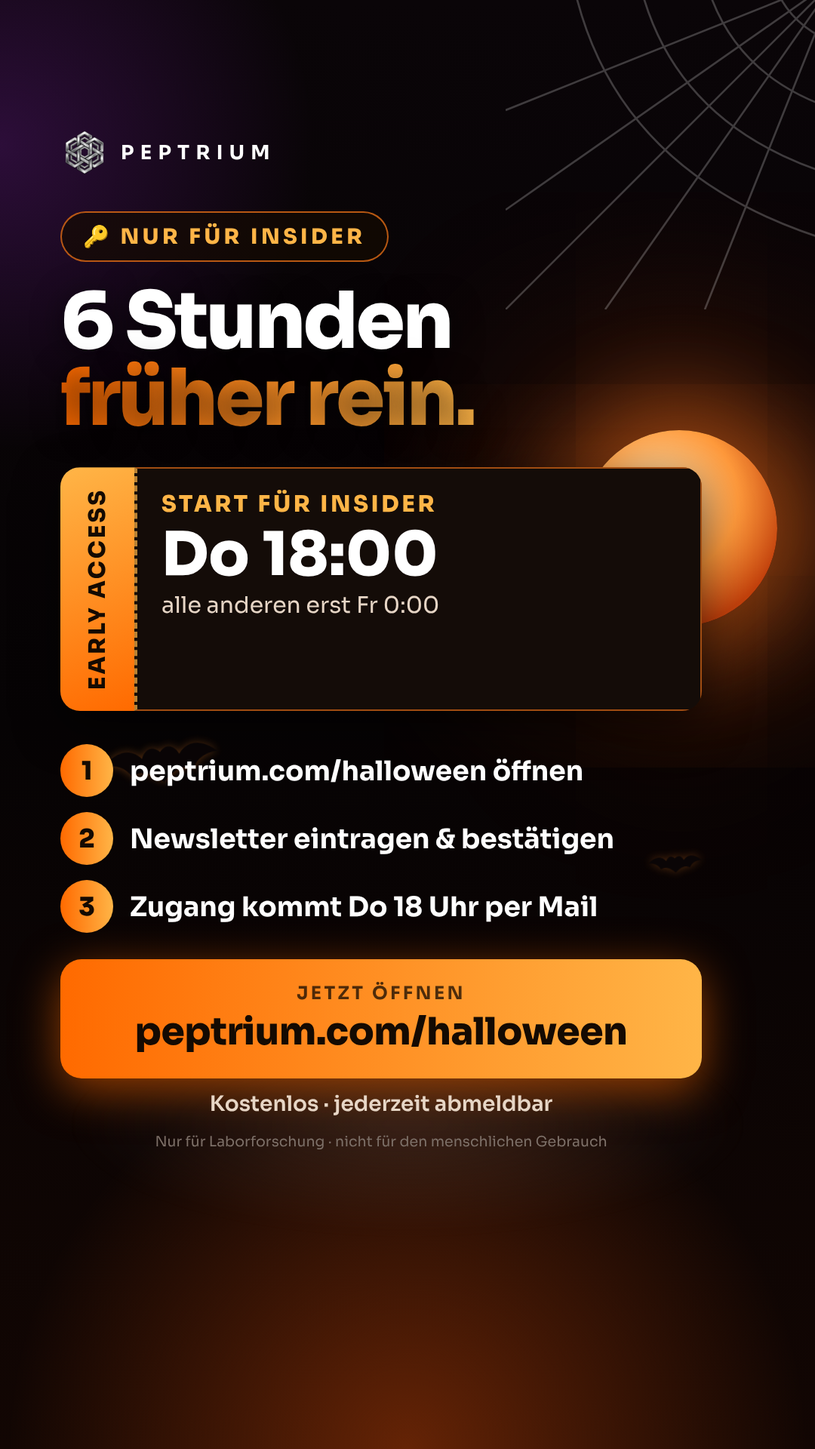
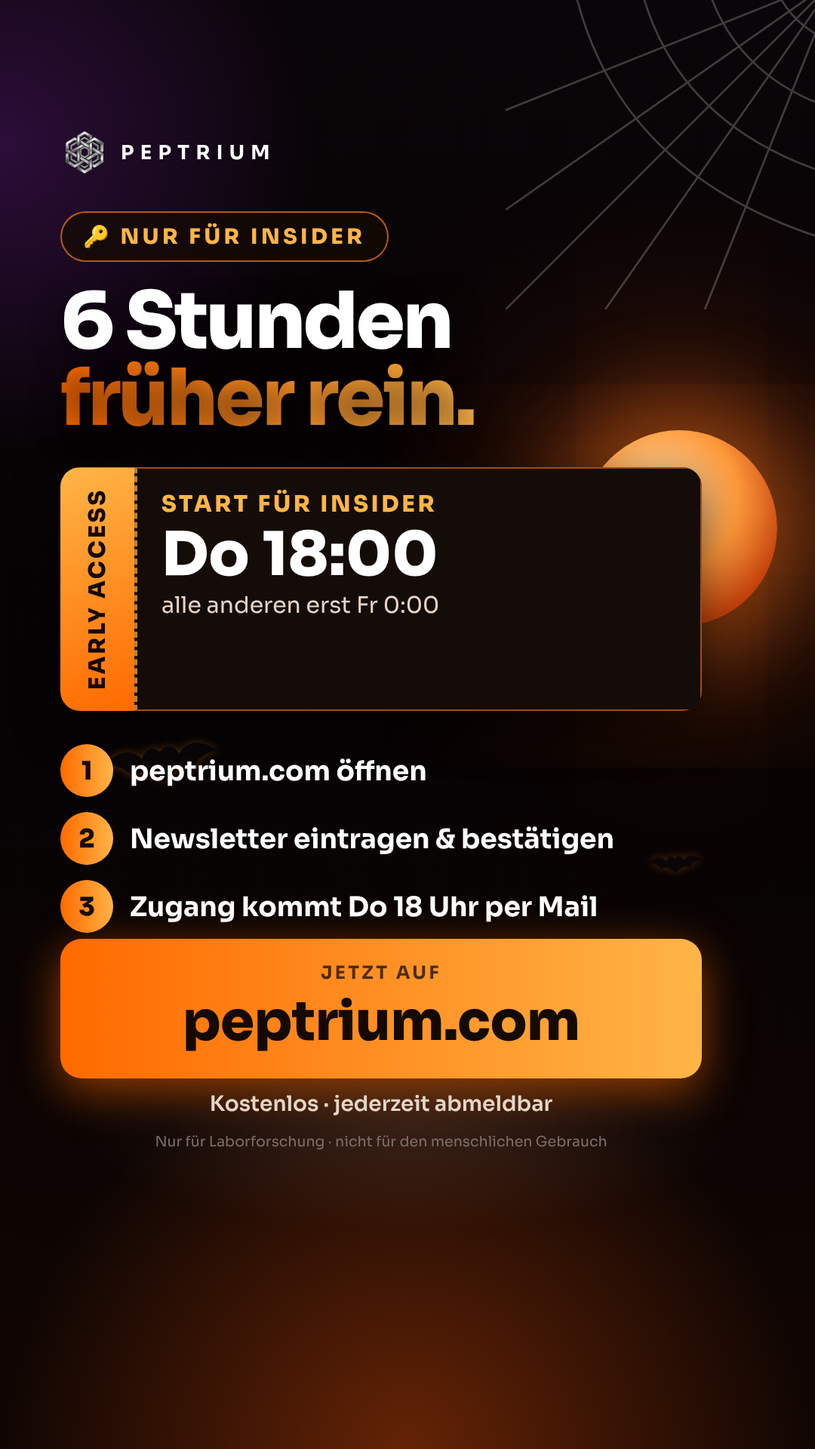
TikTok-Storys: CTA nur peptrium.com
Claude-Session: https://claude.ai/code/session_011YY7DBkbr5BcFGKyLoSbVN

Changed region(s): [[0.0611, 0.625, 0.8556, 0.7188], [0.4889, 0.5, 0.7028, 0.5625], [0.3972, 0.5, 0.4889, 0.5625]]

diff --git a/drafts/halloween-2026-10-22/partner/tiktok/eigen-2-insider.html b/drafts/halloween-2026-10-22/partner/tiktok/eigen-2-insider.html
@@ -17,7 +17,7 @@ h1{font-size:118px;line-height:.98;font-weight:800;letter-spacing:-.035em;text-s
 .free{position:relative}.free img{filter:drop-shadow(0 0 70px rgba(255,122,26,.85)) drop-shadow(0 30px 40px rgba(0,0,0,.8))!important}
 .stamp{position:absolute;top:40%;left:50%;transform:translate(-50%,-50%) rotate(-12deg);font-size:50px;font-weight:800;letter-spacing:.08em;color:#140A02;background:linear-gradient(90deg,#FF6A00,#FFB547);padding:12px 28px;border-radius:14px;box-shadow:0 10px 50px rgba(255,122,26,.7)}
 .cta{position:absolute;left:80px;right:150px;bottom:440px;text-align:center}
-.url{display:block;background:linear-gradient(90deg,#FF6A00,#FFB547);color:#140A02;font-size:50px;font-weight:800;letter-spacing:-.01em;border-radius:28px;padding:30px 20px;box-shadow:0 16px 60px rgba(255,106,0,.55)}
+.url{display:block;background:linear-gradient(90deg,#FF6A00,#FFB547);color:#140A02;font-size:72px;font-weight:800;letter-spacing:-.01em;border-radius:28px;padding:30px 20px;box-shadow:0 16px 60px rgba(255,106,0,.55)}
 .url small{display:block;font-size:24px;font-weight:700;letter-spacing:.14em;opacity:.75;margin-bottom:4px}
 .or{font-size:28px;color:#E7D6C6;margin-top:16px;font-weight:600}
 .foot{position:absolute;left:80px;right:150px;bottom:395px;font-size:19px;color:#7d7068;text-align:center}
@@ -34,4 +34,4 @@ h1{font-size:118px;line-height:.98;font-weight:800;letter-spacing:-.035em;text-s
 .calc{background:rgba(20,12,8,.85);border:2px solid rgba(255,122,26,.55);border-radius:28px;padding:30px 34px}
 .calc .r{display:flex;justify-content:space-between;font-size:38px;font-weight:700;padding:10px 0}.calc .r.g{color:#FFB547}.calc .ln{height:2px;background:rgba(255,255,255,.15);margin:8px 0}
 .calc .note{font-size:26px;color:#C9B9AA;margin-top:12px}
-</style></head><body><div class="bg"></div><div class="moon" style="left:770px;top:570px;width:260px;height:260px"></div><svg class="web" viewBox="0 0 100 100" fill="none" stroke="#fff" stroke-width=".6"><path d="M100 0 0 100M100 0 30 100M100 0 60 100M100 0 0 70M100 0 0 40"/><path d="M80 0q5 15 20 20M60 0q8 30 40 40M40 0q10 45 60 60M20 0q12 60 80 80"/></svg><div class="fog" style="top:1280px"></div><svg class="bat" style="left:140px;top:980px;width:150px;opacity:0.95;transform:rotate(-8deg)" viewBox="0 0 24 12"><path d="M0 4C3 1 6 1 8 3.5 9 1.5 10.5 1 12 2.6 13.5 1 15 1.5 16 3.5 18 1 21 1 24 4 21.5 4 19.6 5 18.6 7 16.8 6 14.6 6.4 12 9 9.4 6.4 7.2 6 5.4 7 4.4 5 2.5 4 0 4Z"/></svg><svg class="bat" style="left:780px;top:880px;width:110px;opacity:0.9;transform:rotate(10deg)" viewBox="0 0 24 12"><path d="M0 4C3 1 6 1 8 3.5 9 1.5 10.5 1 12 2.6 13.5 1 15 1.5 16 3.5 18 1 21 1 24 4 21.5 4 19.6 5 18.6 7 16.8 6 14.6 6.4 12 9 9.4 6.4 7.2 6 5.4 7 4.4 5 2.5 4 0 4Z"/></svg><svg class="bat" style="left:860px;top:1130px;width:70px;opacity:0.8;transform:rotate(-4deg)" viewBox="0 0 24 12"><path d="M0 4C3 1 6 1 8 3.5 9 1.5 10.5 1 12 2.6 13.5 1 15 1.5 16 3.5 18 1 21 1 24 4 21.5 4 19.6 5 18.6 7 16.8 6 14.6 6.4 12 9 9.4 6.4 7.2 6 5.4 7 4.4 5 2.5 4 0 4Z"/></svg><svg class="bat" style="left:90px;top:760px;width:70px;opacity:0.7;transform:rotate(6deg)" viewBox="0 0 24 12"><path d="M0 4C3 1 6 1 8 3.5 9 1.5 10.5 1 12 2.6 13.5 1 15 1.5 16 3.5 18 1 21 1 24 4 21.5 4 19.6 5 18.6 7 16.8 6 14.6 6.4 12 9 9.4 6.4 7.2 6 5.4 7 4.4 5 2.5 4 0 4Z"/></svg><div class="top"><img src="https://peptrium.com/wp-content/uploads/2026/08/IMG_2644-cropped-300x300.png"><b>PEPTRIUM</b></div><div style="position:absolute;left:80px;right:150px;top:280px"><div class="pill">🔑 NUR FÜR INSIDER</div><h1 style="margin-top:28px;font-size:104px">6 Stunden<br><span class="o">früher rein.</span></h1><div class="ticket" style="margin-top:40px"><div class="a">EARLY ACCESS</div><div class="b"><div class="t1">START FÜR INSIDER</div><div class="t2">Do 18:00</div><div class="t3">alle anderen erst Fr 0:00</div></div></div><div class="steps" style="margin-top:44px"><div class="st"><i>1</i>peptrium.com/halloween öffnen</div><div class="st"><i>2</i>Newsletter eintragen & bestätigen</div><div class="st"><i>3</i>Zugang kommt Do 18 Uhr per Mail</div></div></div><div class="cta"><div class="url"><small>JETZT ÖFFNEN</small>peptrium.com/halloween</div><div class="or">Kostenlos · jederzeit abmeldbar</div></div><div class="foot">Nur für Laborforschung · nicht für den menschlichen Gebrauch</div></body></html>
+</style></head><body><div class="bg"></div><div class="moon" style="left:770px;top:570px;width:260px;height:260px"></div><svg class="web" viewBox="0 0 100 100" fill="none" stroke="#fff" stroke-width=".6"><path d="M100 0 0 100M100 0 30 100M100 0 60 100M100 0 0 70M100 0 0 40"/><path d="M80 0q5 15 20 20M60 0q8 30 40 40M40 0q10 45 60 60M20 0q12 60 80 80"/></svg><div class="fog" style="top:1280px"></div><svg class="bat" style="left:140px;top:980px;width:150px;opacity:0.95;transform:rotate(-8deg)" viewBox="0 0 24 12"><path d="M0 4C3 1 6 1 8 3.5 9 1.5 10.5 1 12 2.6 13.5 1 15 1.5 16 3.5 18 1 21 1 24 4 21.5 4 19.6 5 18.6 7 16.8 6 14.6 6.4 12 9 9.4 6.4 7.2 6 5.4 7 4.4 5 2.5 4 0 4Z"/></svg><svg class="bat" style="left:780px;top:880px;width:110px;opacity:0.9;transform:rotate(10deg)" viewBox="0 0 24 12"><path d="M0 4C3 1 6 1 8 3.5 9 1.5 10.5 1 12 2.6 13.5 1 15 1.5 16 3.5 18 1 21 1 24 4 21.5 4 19.6 5 18.6 7 16.8 6 14.6 6.4 12 9 9.4 6.4 7.2 6 5.4 7 4.4 5 2.5 4 0 4Z"/></svg><svg class="bat" style="left:860px;top:1130px;width:70px;opacity:0.8;transform:rotate(-4deg)" viewBox="0 0 24 12"><path d="M0 4C3 1 6 1 8 3.5 9 1.5 10.5 1 12 2.6 13.5 1 15 1.5 16 3.5 18 1 21 1 24 4 21.5 4 19.6 5 18.6 7 16.8 6 14.6 6.4 12 9 9.4 6.4 7.2 6 5.4 7 4.4 5 2.5 4 0 4Z"/></svg><svg class="bat" style="left:90px;top:760px;width:70px;opacity:0.7;transform:rotate(6deg)" viewBox="0 0 24 12"><path d="M0 4C3 1 6 1 8 3.5 9 1.5 10.5 1 12 2.6 13.5 1 15 1.5 16 3.5 18 1 21 1 24 4 21.5 4 19.6 5 18.6 7 16.8 6 14.6 6.4 12 9 9.4 6.4 7.2 6 5.4 7 4.4 5 2.5 4 0 4Z"/></svg><div class="top"><img src="https://peptrium.com/wp-content/uploads/2026/08/IMG_2644-cropped-300x300.png"><b>PEPTRIUM</b></div><div style="position:absolute;left:80px;right:150px;top:280px"><div class="pill">🔑 NUR FÜR INSIDER</div><h1 style="margin-top:28px;font-size:104px">6 Stunden<br><span class="o">früher rein.</span></h1><div class="ticket" style="margin-top:40px"><div class="a">EARLY ACCESS</div><div class="b"><div class="t1">START FÜR INSIDER</div><div class="t2">Do 18:00</div><div class="t3">alle anderen erst Fr 0:00</div></div></div><div class="steps" style="margin-top:44px"><div class="st"><i>1</i>peptrium.com öffnen</div><div class="st"><i>2</i>Newsletter eintragen & bestätigen</div><div class="st"><i>3</i>Zugang kommt Do 18 Uhr per Mail</div></div></div><div class="cta"><div class="url"><small>JETZT AUF</small>peptrium.com</div><div class="or">Kostenlos · jederzeit abmeldbar</div></div><div class="foot">Nur für Laborforschung · nicht für den menschlichen Gebrauch</div></body></html>

diff --git a/drafts/halloween-2026-10-22/partner/tiktok/eigen-4-so-gehts.html b/drafts/halloween-2026-10-22/partner/tiktok/eigen-4-so-gehts.html
@@ -17,7 +17,7 @@ h1{font-size:118px;line-height:.98;font-weight:800;letter-spacing:-.035em;text-s
 .free{position:relative}.free img{filter:drop-shadow(0 0 70px rgba(255,122,26,.85)) drop-shadow(0 30px 40px rgba(0,0,0,.8))!important}
 .stamp{position:absolute;top:40%;left:50%;transform:translate(-50%,-50%) rotate(-12deg);font-size:50px;font-weight:800;letter-spacing:.08em;color:#140A02;background:linear-gradient(90deg,#FF6A00,#FFB547);padding:12px 28px;border-radius:14px;box-shadow:0 10px 50px rgba(255,122,26,.7)}
 .cta{position:absolute;left:80px;right:150px;bottom:440px;text-align:center}
-.url{display:block;background:linear-gradient(90deg,#FF6A00,#FFB547);color:#140A02;font-size:50px;font-weight:800;letter-spacing:-.01em;border-radius:28px;padding:30px 20px;box-shadow:0 16px 60px rgba(255,106,0,.55)}
+.url{display:block;background:linear-gradient(90deg,#FF6A00,#FFB547);color:#140A02;font-size:72px;font-weight:800;letter-spacing:-.01em;border-radius:28px;padding:30px 20px;box-shadow:0 16px 60px rgba(255,106,0,.55)}
 .url small{display:block;font-size:24px;font-weight:700;letter-spacing:.14em;opacity:.75;margin-bottom:4px}
 .or{font-size:28px;color:#E7D6C6;margin-top:16px;font-weight:600}
 .foot{position:absolute;left:80px;right:150px;bottom:395px;font-size:19px;color:#7d7068;text-align:center}
@@ -34,4 +34,4 @@ h1{font-size:118px;line-height:.98;font-weight:800;letter-spacing:-.035em;text-s
 .calc{background:rgba(20,12,8,.85);border:2px solid rgba(255,122,26,.55);border-radius:28px;padding:30px 34px}
 .calc .r{display:flex;justify-content:space-between;font-size:38px;font-weight:700;padding:10px 0}.calc .r.g{color:#FFB547}.calc .ln{height:2px;background:rgba(255,255,255,.15);margin:8px 0}
 .calc .note{font-size:26px;color:#C9B9AA;margin-top:12px}
-</style></head><body><div class="bg"></div><div class="moon" style="left:760px;top:640px;width:240px;height:240px"></div><svg class="web" viewBox="0 0 100 100" fill="none" stroke="#fff" stroke-width=".6"><path d="M100 0 0 100M100 0 30 100M100 0 60 100M100 0 0 70M100 0 0 40"/><path d="M80 0q5 15 20 20M60 0q8 30 40 40M40 0q10 45 60 60M20 0q12 60 80 80"/></svg><div class="fog" style="top:1280px"></div><svg class="bat" style="left:140px;top:980px;width:150px;opacity:0.95;transform:rotate(-8deg)" viewBox="0 0 24 12"><path d="M0 4C3 1 6 1 8 3.5 9 1.5 10.5 1 12 2.6 13.5 1 15 1.5 16 3.5 18 1 21 1 24 4 21.5 4 19.6 5 18.6 7 16.8 6 14.6 6.4 12 9 9.4 6.4 7.2 6 5.4 7 4.4 5 2.5 4 0 4Z"/></svg><svg class="bat" style="left:780px;top:880px;width:110px;opacity:0.9;transform:rotate(10deg)" viewBox="0 0 24 12"><path d="M0 4C3 1 6 1 8 3.5 9 1.5 10.5 1 12 2.6 13.5 1 15 1.5 16 3.5 18 1 21 1 24 4 21.5 4 19.6 5 18.6 7 16.8 6 14.6 6.4 12 9 9.4 6.4 7.2 6 5.4 7 4.4 5 2.5 4 0 4Z"/></svg><svg class="bat" style="left:860px;top:1130px;width:70px;opacity:0.8;transform:rotate(-4deg)" viewBox="0 0 24 12"><path d="M0 4C3 1 6 1 8 3.5 9 1.5 10.5 1 12 2.6 13.5 1 15 1.5 16 3.5 18 1 21 1 24 4 21.5 4 19.6 5 18.6 7 16.8 6 14.6 6.4 12 9 9.4 6.4 7.2 6 5.4 7 4.4 5 2.5 4 0 4Z"/></svg><svg class="bat" style="left:90px;top:760px;width:70px;opacity:0.7;transform:rotate(6deg)" viewBox="0 0 24 12"><path d="M0 4C3 1 6 1 8 3.5 9 1.5 10.5 1 12 2.6 13.5 1 15 1.5 16 3.5 18 1 21 1 24 4 21.5 4 19.6 5 18.6 7 16.8 6 14.6 6.4 12 9 9.4 6.4 7.2 6 5.4 7 4.4 5 2.5 4 0 4Z"/></svg><div class="top"><img src="https://peptrium.com/wp-content/uploads/2026/08/IMG_2644-cropped-300x300.png"><b>PEPTRIUM</b></div><div style="position:absolute;left:80px;right:150px;top:280px"><div class="pill">🎃 SO EINFACH GEHT’S</div><h1 style="margin-top:28px;font-size:100px">Leg 3 rein.<br><span class="o">Zahl nur 2.</span></h1><div class="calc" style="margin-top:44px"><div class="r"><span>2× Retatrutide</span><span>✓</span></div><div class="r"><span>1× GHK-Cu</span><span>✓</span></div><div class="ln"></div><div class="r g"><span>GHK-Cu</span><span>GRATIS 🎃</span></div><div class="note">Auch gemischt · automatisch im Warenkorb · kein Code nötig · bei 6 Flaschen sind 2 gratis</div></div></div><div class="cta"><div class="url"><small>JETZT ÖFFNEN</small>peptrium.com/halloween</div><div class="or">Nur Fr 30.10. – So 1.11. · solange der Vorrat reicht</div></div><div class="foot">Nur für Laborforschung · nicht für den menschlichen Gebrauch</div></body></html>
+</style></head><body><div class="bg"></div><div class="moon" style="left:760px;top:640px;width:240px;height:240px"></div><svg class="web" viewBox="0 0 100 100" fill="none" stroke="#fff" stroke-width=".6"><path d="M100 0 0 100M100 0 30 100M100 0 60 100M100 0 0 70M100 0 0 40"/><path d="M80 0q5 15 20 20M60 0q8 30 40 40M40 0q10 45 60 60M20 0q12 60 80 80"/></svg><div class="fog" style="top:1280px"></div><svg class="bat" style="left:140px;top:980px;width:150px;opacity:0.95;transform:rotate(-8deg)" viewBox="0 0 24 12"><path d="M0 4C3 1 6 1 8 3.5 9 1.5 10.5 1 12 2.6 13.5 1 15 1.5 16 3.5 18 1 21 1 24 4 21.5 4 19.6 5 18.6 7 16.8 6 14.6 6.4 12 9 9.4 6.4 7.2 6 5.4 7 4.4 5 2.5 4 0 4Z"/></svg><svg class="bat" style="left:780px;top:880px;width:110px;opacity:0.9;transform:rotate(10deg)" viewBox="0 0 24 12"><path d="M0 4C3 1 6 1 8 3.5 9 1.5 10.5 1 12 2.6 13.5 1 15 1.5 16 3.5 18 1 21 1 24 4 21.5 4 19.6 5 18.6 7 16.8 6 14.6 6.4 12 9 9.4 6.4 7.2 6 5.4 7 4.4 5 2.5 4 0 4Z"/></svg><svg class="bat" style="left:860px;top:1130px;width:70px;opacity:0.8;transform:rotate(-4deg)" viewBox="0 0 24 12"><path d="M0 4C3 1 6 1 8 3.5 9 1.5 10.5 1 12 2.6 13.5 1 15 1.5 16 3.5 18 1 21 1 24 4 21.5 4 19.6 5 18.6 7 16.8 6 14.6 6.4 12 9 9.4 6.4 7.2 6 5.4 7 4.4 5 2.5 4 0 4Z"/></svg><svg class="bat" style="left:90px;top:760px;width:70px;opacity:0.7;transform:rotate(6deg)" viewBox="0 0 24 12"><path d="M0 4C3 1 6 1 8 3.5 9 1.5 10.5 1 12 2.6 13.5 1 15 1.5 16 3.5 18 1 21 1 24 4 21.5 4 19.6 5 18.6 7 16.8 6 14.6 6.4 12 9 9.4 6.4 7.2 6 5.4 7 4.4 5 2.5 4 0 4Z"/></svg><div class="top"><img src="https://peptrium.com/wp-content/uploads/2026/08/IMG_2644-cropped-300x300.png"><b>PEPTRIUM</b></div><div style="position:absolute;left:80px;right:150px;top:280px"><div class="pill">🎃 SO EINFACH GEHT’S</div><h1 style="margin-top:28px;font-size:100px">Leg 3 rein.<br><span class="o">Zahl nur 2.</span></h1><div class="calc" style="margin-top:44px"><div class="r"><span>2× Retatrutide</span><span>✓</span></div><div class="r"><span>1× GHK-Cu</span><span>✓</span></div><div class="ln"></div><div class="r g"><span>GHK-Cu</span><span>GRATIS 🎃</span></div><div class="note">Auch gemischt · automatisch im Warenkorb · kein Code nötig · bei 6 Flaschen sind 2 gratis</div></div></div><div class="cta"><div class="url"><small>JETZT AUF</small>peptrium.com</div><div class="or">Nur Fr 30.10. – So 1.11. · solange der Vorrat reicht</div></div><div class="foot">Nur für Laborforschung · nicht für den menschlichen Gebrauch</div></body></html>

diff --git a/drafts/halloween-2026-10-22/partner/tiktok/eigen-3-neu.html b/drafts/halloween-2026-10-22/partner/tiktok/eigen-3-neu.html
@@ -17,7 +17,7 @@ h1{font-size:118px;line-height:.98;font-weight:800;letter-spacing:-.035em;text-s
 .free{position:relative}.free img{filter:drop-shadow(0 0 70px rgba(255,122,26,.85)) drop-shadow(0 30px 40px rgba(0,0,0,.8))!important}
 .stamp{position:absolute;top:40%;left:50%;transform:translate(-50%,-50%) rotate(-12deg);font-size:50px;font-weight:800;letter-spacing:.08em;color:#140A02;background:linear-gradient(90deg,#FF6A00,#FFB547);padding:12px 28px;border-radius:14px;box-shadow:0 10px 50px rgba(255,122,26,.7)}
 .cta{position:absolute;left:80px;right:150px;bottom:440px;text-align:center}
-.url{display:block;background:linear-gradient(90deg,#FF6A00,#FFB547);color:#140A02;font-size:50px;font-weight:800;letter-spacing:-.01em;border-radius:28px;padding:30px 20px;box-shadow:0 16px 60px rgba(255,106,0,.55)}
+.url{display:block;background:linear-gradient(90deg,#FF6A00,#FFB547);color:#140A02;font-size:72px;font-weight:800;letter-spacing:-.01em;border-radius:28px;padding:30px 20px;box-shadow:0 16px 60px rgba(255,106,0,.55)}
 .url small{display:block;font-size:24px;font-weight:700;letter-spacing:.14em;opacity:.75;margin-bottom:4px}
 .or{font-size:28px;color:#E7D6C6;margin-top:16px;font-weight:600}
 .foot{position:absolute;left:80px;right:150px;bottom:395px;font-size:19px;color:#7d7068;text-align:center}
@@ -34,4 +34,4 @@ h1{font-size:118px;line-height:.98;font-weight:800;letter-spacing:-.035em;text-s
 .calc{background:rgba(20,12,8,.85);border:2px solid rgba(255,122,26,.55);border-radius:28px;padding:30px 34px}
 .calc .r{display:flex;justify-content:space-between;font-size:38px;font-weight:700;padding:10px 0}.calc .r.g{color:#FFB547}.calc .ln{height:2px;background:rgba(255,255,255,.15);margin:8px 0}
 .calc .note{font-size:26px;color:#C9B9AA;margin-top:12px}
-</style></head><body><div class="bg"></div><div class="moon" style="left:300px;top:870px;width:480px;height:480px"></div><svg class="web" viewBox="0 0 100 100" fill="none" stroke="#fff" stroke-width=".6"><path d="M100 0 0 100M100 0 30 100M100 0 60 100M100 0 0 70M100 0 0 40"/><path d="M80 0q5 15 20 20M60 0q8 30 40 40M40 0q10 45 60 60M20 0q12 60 80 80"/></svg><div class="fog" style="top:1280px"></div><svg class="bat" style="left:140px;top:980px;width:150px;opacity:0.95;transform:rotate(-8deg)" viewBox="0 0 24 12"><path d="M0 4C3 1 6 1 8 3.5 9 1.5 10.5 1 12 2.6 13.5 1 15 1.5 16 3.5 18 1 21 1 24 4 21.5 4 19.6 5 18.6 7 16.8 6 14.6 6.4 12 9 9.4 6.4 7.2 6 5.4 7 4.4 5 2.5 4 0 4Z"/></svg><svg class="bat" style="left:780px;top:880px;width:110px;opacity:0.9;transform:rotate(10deg)" viewBox="0 0 24 12"><path d="M0 4C3 1 6 1 8 3.5 9 1.5 10.5 1 12 2.6 13.5 1 15 1.5 16 3.5 18 1 21 1 24 4 21.5 4 19.6 5 18.6 7 16.8 6 14.6 6.4 12 9 9.4 6.4 7.2 6 5.4 7 4.4 5 2.5 4 0 4Z"/></svg><svg class="bat" style="left:860px;top:1130px;width:70px;opacity:0.8;transform:rotate(-4deg)" viewBox="0 0 24 12"><path d="M0 4C3 1 6 1 8 3.5 9 1.5 10.5 1 12 2.6 13.5 1 15 1.5 16 3.5 18 1 21 1 24 4 21.5 4 19.6 5 18.6 7 16.8 6 14.6 6.4 12 9 9.4 6.4 7.2 6 5.4 7 4.4 5 2.5 4 0 4Z"/></svg><svg class="bat" style="left:90px;top:760px;width:70px;opacity:0.7;transform:rotate(6deg)" viewBox="0 0 24 12"><path d="M0 4C3 1 6 1 8 3.5 9 1.5 10.5 1 12 2.6 13.5 1 15 1.5 16 3.5 18 1 21 1 24 4 21.5 4 19.6 5 18.6 7 16.8 6 14.6 6.4 12 9 9.4 6.4 7.2 6 5.4 7 4.4 5 2.5 4 0 4Z"/></svg><div class="top"><img src="https://peptrium.com/wp-content/uploads/2026/08/IMG_2644-cropped-300x300.png"><b>PEPTRIUM</b></div><div style="position:absolute;left:80px;right:150px;top:280px"><div class="pill">✨ NEU ZU HALLOWEEN</div><h1 style="margin-top:28px;font-size:104px">3 neue<br>Peptide <span class="o">+1<br>ist zurück.</span></h1><div class="chips" style="margin-top:30px"><span>Cagrilintid</span><span>MT-2</span><span>GLOW</span><span class="w">BPC-157 wieder da</span></div></div><div class="vials" style="top:930px;gap:10px"><img class="" src="img/cagri.png" style="height:326px"><img class="" src="img/glow.png" style="height:326px"><img class="" src="img/mt2.png" style="height:326px"></div><div class="cta"><div class="url"><small>JETZT ÖFFNEN</small>peptrium.com/halloween</div><div class="or">Alle zählen bei „jede 3. gratis“ 🎃</div></div><div class="foot">Nur für Laborforschung · nicht für den menschlichen Gebrauch</div></body></html>
+</style></head><body><div class="bg"></div><div class="moon" style="left:300px;top:870px;width:480px;height:480px"></div><svg class="web" viewBox="0 0 100 100" fill="none" stroke="#fff" stroke-width=".6"><path d="M100 0 0 100M100 0 30 100M100 0 60 100M100 0 0 70M100 0 0 40"/><path d="M80 0q5 15 20 20M60 0q8 30 40 40M40 0q10 45 60 60M20 0q12 60 80 80"/></svg><div class="fog" style="top:1280px"></div><svg class="bat" style="left:140px;top:980px;width:150px;opacity:0.95;transform:rotate(-8deg)" viewBox="0 0 24 12"><path d="M0 4C3 1 6 1 8 3.5 9 1.5 10.5 1 12 2.6 13.5 1 15 1.5 16 3.5 18 1 21 1 24 4 21.5 4 19.6 5 18.6 7 16.8 6 14.6 6.4 12 9 9.4 6.4 7.2 6 5.4 7 4.4 5 2.5 4 0 4Z"/></svg><svg class="bat" style="left:780px;top:880px;width:110px;opacity:0.9;transform:rotate(10deg)" viewBox="0 0 24 12"><path d="M0 4C3 1 6 1 8 3.5 9 1.5 10.5 1 12 2.6 13.5 1 15 1.5 16 3.5 18 1 21 1 24 4 21.5 4 19.6 5 18.6 7 16.8 6 14.6 6.4 12 9 9.4 6.4 7.2 6 5.4 7 4.4 5 2.5 4 0 4Z"/></svg><svg class="bat" style="left:860px;top:1130px;width:70px;opacity:0.8;transform:rotate(-4deg)" viewBox="0 0 24 12"><path d="M0 4C3 1 6 1 8 3.5 9 1.5 10.5 1 12 2.6 13.5 1 15 1.5 16 3.5 18 1 21 1 24 4 21.5 4 19.6 5 18.6 7 16.8 6 14.6 6.4 12 9 9.4 6.4 7.2 6 5.4 7 4.4 5 2.5 4 0 4Z"/></svg><svg class="bat" style="left:90px;top:760px;width:70px;opacity:0.7;transform:rotate(6deg)" viewBox="0 0 24 12"><path d="M0 4C3 1 6 1 8 3.5 9 1.5 10.5 1 12 2.6 13.5 1 15 1.5 16 3.5 18 1 21 1 24 4 21.5 4 19.6 5 18.6 7 16.8 6 14.6 6.4 12 9 9.4 6.4 7.2 6 5.4 7 4.4 5 2.5 4 0 4Z"/></svg><div class="top"><img src="https://peptrium.com/wp-content/uploads/2026/08/IMG_2644-cropped-300x300.png"><b>PEPTRIUM</b></div><div style="position:absolute;left:80px;right:150px;top:280px"><div class="pill">✨ NEU ZU HALLOWEEN</div><h1 style="margin-top:28px;font-size:104px">3 neue<br>Peptide <span class="o">+1<br>ist zurück.</span></h1><div class="chips" style="margin-top:30px"><span>Cagrilintid</span><span>MT-2</span><span>GLOW</span><span class="w">BPC-157 wieder da</span></div></div><div class="vials" style="top:930px;gap:10px"><img class="" src="img/cagri.png" style="height:326px"><img class="" src="img/glow.png" style="height:326px"><img class="" src="img/mt2.png" style="height:326px"></div><div class="cta"><div class="url"><small>JETZT AUF</small>peptrium.com</div><div class="or">Alle zählen bei „jede 3. gratis“ 🎃</div></div><div class="foot">Nur für Laborforschung · nicht für den menschlichen Gebrauch</div></body></html>

diff --git a/drafts/halloween-2026-10-22/partner/tiktok/eigen-5-letzte-chance.html b/drafts/halloween-2026-10-22/partner/tiktok/eigen-5-letzte-chance.html
@@ -17,7 +17,7 @@ h1{font-size:118px;line-height:.98;font-weight:800;letter-spacing:-.035em;text-s
 .free{position:relative}.free img{filter:drop-shadow(0 0 70px rgba(255,122,26,.85)) drop-shadow(0 30px 40px rgba(0,0,0,.8))!important}
 .stamp{position:absolute;top:40%;left:50%;transform:translate(-50%,-50%) rotate(-12deg);font-size:50px;font-weight:800;letter-spacing:.08em;color:#140A02;background:linear-gradient(90deg,#FF6A00,#FFB547);padding:12px 28px;border-radius:14px;box-shadow:0 10px 50px rgba(255,122,26,.7)}
 .cta{position:absolute;left:80px;right:150px;bottom:440px;text-align:center}
-.url{display:block;background:linear-gradient(90deg,#FF6A00,#FFB547);color:#140A02;font-size:50px;font-weight:800;letter-spacing:-.01em;border-radius:28px;padding:30px 20px;box-shadow:0 16px 60px rgba(255,106,0,.55)}
+.url{display:block;background:linear-gradient(90deg,#FF6A00,#FFB547);color:#140A02;font-size:72px;font-weight:800;letter-spacing:-.01em;border-radius:28px;padding:30px 20px;box-shadow:0 16px 60px rgba(255,106,0,.55)}
 .url small{display:block;font-size:24px;font-weight:700;letter-spacing:.14em;opacity:.75;margin-bottom:4px}
 .or{font-size:28px;color:#E7D6C6;margin-top:16px;font-weight:600}
 .foot{position:absolute;left:80px;right:150px;bottom:395px;font-size:19px;color:#7d7068;text-align:center}
@@ -34,4 +34,4 @@ h1{font-size:118px;line-height:.98;font-weight:800;letter-spacing:-.035em;text-s
 .calc{background:rgba(20,12,8,.85);border:2px solid rgba(255,122,26,.55);border-radius:28px;padding:30px 34px}
 .calc .r{display:flex;justify-content:space-between;font-size:38px;font-weight:700;padding:10px 0}.calc .r.g{color:#FFB547}.calc .ln{height:2px;background:rgba(255,255,255,.15);margin:8px 0}
 .calc .note{font-size:26px;color:#C9B9AA;margin-top:12px}
-</style></head><body><div class="bg"></div><div class="moon" style="left:300px;top:840px;width:480px;height:480px"></div><svg class="web" viewBox="0 0 100 100" fill="none" stroke="#fff" stroke-width=".6"><path d="M100 0 0 100M100 0 30 100M100 0 60 100M100 0 0 70M100 0 0 40"/><path d="M80 0q5 15 20 20M60 0q8 30 40 40M40 0q10 45 60 60M20 0q12 60 80 80"/></svg><div class="fog" style="top:1280px"></div><svg class="bat" style="left:140px;top:980px;width:150px;opacity:0.95;transform:rotate(-8deg)" viewBox="0 0 24 12"><path d="M0 4C3 1 6 1 8 3.5 9 1.5 10.5 1 12 2.6 13.5 1 15 1.5 16 3.5 18 1 21 1 24 4 21.5 4 19.6 5 18.6 7 16.8 6 14.6 6.4 12 9 9.4 6.4 7.2 6 5.4 7 4.4 5 2.5 4 0 4Z"/></svg><svg class="bat" style="left:780px;top:880px;width:110px;opacity:0.9;transform:rotate(10deg)" viewBox="0 0 24 12"><path d="M0 4C3 1 6 1 8 3.5 9 1.5 10.5 1 12 2.6 13.5 1 15 1.5 16 3.5 18 1 21 1 24 4 21.5 4 19.6 5 18.6 7 16.8 6 14.6 6.4 12 9 9.4 6.4 7.2 6 5.4 7 4.4 5 2.5 4 0 4Z"/></svg><svg class="bat" style="left:860px;top:1130px;width:70px;opacity:0.8;transform:rotate(-4deg)" viewBox="0 0 24 12"><path d="M0 4C3 1 6 1 8 3.5 9 1.5 10.5 1 12 2.6 13.5 1 15 1.5 16 3.5 18 1 21 1 24 4 21.5 4 19.6 5 18.6 7 16.8 6 14.6 6.4 12 9 9.4 6.4 7.2 6 5.4 7 4.4 5 2.5 4 0 4Z"/></svg><svg class="bat" style="left:90px;top:760px;width:70px;opacity:0.7;transform:rotate(6deg)" viewBox="0 0 24 12"><path d="M0 4C3 1 6 1 8 3.5 9 1.5 10.5 1 12 2.6 13.5 1 15 1.5 16 3.5 18 1 21 1 24 4 21.5 4 19.6 5 18.6 7 16.8 6 14.6 6.4 12 9 9.4 6.4 7.2 6 5.4 7 4.4 5 2.5 4 0 4Z"/></svg><div class="top"><img src="https://peptrium.com/wp-content/uploads/2026/08/IMG_2644-cropped-300x300.png"><b>PEPTRIUM</b></div><div style="position:absolute;left:80px;right:150px;top:280px"><div class="pill">⏳ LETZTE CHANCE</div><h1 style="margin-top:28px">Nur noch<br><span class="o">bis heute<br>23:59.</span></h1><div class="sub" style="margin-top:26px">Danach ist die 3. Flasche wieder nicht gratis.</div></div><div class="vials" style="top:900px;gap:-30px"><img class="dim" src="img/bpc.png" style="height:344px"><div class="free"><img src="img/reta.png" style="height:400px"><div class="stamp">GRATIS</div></div><img class="dim" src="img/glow.png" style="height:344px"></div><div class="cta"><div class="url"><small>JETZT ÖFFNEN</small>peptrium.com/halloween</div><div class="or">oder einfach Link in Bio</div></div><div class="foot">Nur für Laborforschung · nicht für den menschlichen Gebrauch</div></body></html>
+</style></head><body><div class="bg"></div><div class="moon" style="left:300px;top:840px;width:480px;height:480px"></div><svg class="web" viewBox="0 0 100 100" fill="none" stroke="#fff" stroke-width=".6"><path d="M100 0 0 100M100 0 30 100M100 0 60 100M100 0 0 70M100 0 0 40"/><path d="M80 0q5 15 20 20M60 0q8 30 40 40M40 0q10 45 60 60M20 0q12 60 80 80"/></svg><div class="fog" style="top:1280px"></div><svg class="bat" style="left:140px;top:980px;width:150px;opacity:0.95;transform:rotate(-8deg)" viewBox="0 0 24 12"><path d="M0 4C3 1 6 1 8 3.5 9 1.5 10.5 1 12 2.6 13.5 1 15 1.5 16 3.5 18 1 21 1 24 4 21.5 4 19.6 5 18.6 7 16.8 6 14.6 6.4 12 9 9.4 6.4 7.2 6 5.4 7 4.4 5 2.5 4 0 4Z"/></svg><svg class="bat" style="left:780px;top:880px;width:110px;opacity:0.9;transform:rotate(10deg)" viewBox="0 0 24 12"><path d="M0 4C3 1 6 1 8 3.5 9 1.5 10.5 1 12 2.6 13.5 1 15 1.5 16 3.5 18 1 21 1 24 4 21.5 4 19.6 5 18.6 7 16.8 6 14.6 6.4 12 9 9.4 6.4 7.2 6 5.4 7 4.4 5 2.5 4 0 4Z"/></svg><svg class="bat" style="left:860px;top:1130px;width:70px;opacity:0.8;transform:rotate(-4deg)" viewBox="0 0 24 12"><path d="M0 4C3 1 6 1 8 3.5 9 1.5 10.5 1 12 2.6 13.5 1 15 1.5 16 3.5 18 1 21 1 24 4 21.5 4 19.6 5 18.6 7 16.8 6 14.6 6.4 12 9 9.4 6.4 7.2 6 5.4 7 4.4 5 2.5 4 0 4Z"/></svg><svg class="bat" style="left:90px;top:760px;width:70px;opacity:0.7;transform:rotate(6deg)" viewBox="0 0 24 12"><path d="M0 4C3 1 6 1 8 3.5 9 1.5 10.5 1 12 2.6 13.5 1 15 1.5 16 3.5 18 1 21 1 24 4 21.5 4 19.6 5 18.6 7 16.8 6 14.6 6.4 12 9 9.4 6.4 7.2 6 5.4 7 4.4 5 2.5 4 0 4Z"/></svg><div class="top"><img src="https://peptrium.com/wp-content/uploads/2026/08/IMG_2644-cropped-300x300.png"><b>PEPTRIUM</b></div><div style="position:absolute;left:80px;right:150px;top:280px"><div class="pill">⏳ LETZTE CHANCE</div><h1 style="margin-top:28px">Nur noch<br><span class="o">bis heute<br>23:59.</span></h1><div class="sub" style="margin-top:26px">Danach ist die 3. Flasche wieder nicht gratis.</div></div><div class="vials" style="top:900px;gap:-30px"><img class="dim" src="img/bpc.png" style="height:344px"><div class="free"><img src="img/reta.png" style="height:400px"><div class="stamp">GRATIS</div></div><img class="dim" src="img/glow.png" style="height:344px"></div><div class="cta"><div class="url"><small>JETZT AUF</small>peptrium.com</div><div class="or">Einfach im Browser eintippen</div></div><div class="foot">Nur für Laborforschung · nicht für den menschlichen Gebrauch</div></body></html>

diff --git a/drafts/halloween-2026-10-22/partner/tiktok/eigen-1-hook.html b/drafts/halloween-2026-10-22/partner/tiktok/eigen-1-hook.html
@@ -17,7 +17,7 @@ h1{font-size:118px;line-height:.98;font-weight:800;letter-spacing:-.035em;text-s
 .free{position:relative}.free img{filter:drop-shadow(0 0 70px rgba(255,122,26,.85)) drop-shadow(0 30px 40px rgba(0,0,0,.8))!important}
 .stamp{position:absolute;top:40%;left:50%;transform:translate(-50%,-50%) rotate(-12deg);font-size:50px;font-weight:800;letter-spacing:.08em;color:#140A02;background:linear-gradient(90deg,#FF6A00,#FFB547);padding:12px 28px;border-radius:14px;box-shadow:0 10px 50px rgba(255,122,26,.7)}
 .cta{position:absolute;left:80px;right:150px;bottom:440px;text-align:center}
-.url{display:block;background:linear-gradient(90deg,#FF6A00,#FFB547);color:#140A02;font-size:50px;font-weight:800;letter-spacing:-.01em;border-radius:28px;padding:30px 20px;box-shadow:0 16px 60px rgba(255,106,0,.55)}
+.url{display:block;background:linear-gradient(90deg,#FF6A00,#FFB547);color:#140A02;font-size:72px;font-weight:800;letter-spacing:-.01em;border-radius:28px;padding:30px 20px;box-shadow:0 16px 60px rgba(255,106,0,.55)}
 .url small{display:block;font-size:24px;font-weight:700;letter-spacing:.14em;opacity:.75;margin-bottom:4px}
 .or{font-size:28px;color:#E7D6C6;margin-top:16px;font-weight:600}
 .foot{position:absolute;left:80px;right:150px;bottom:395px;font-size:19px;color:#7d7068;text-align:center}
@@ -34,4 +34,4 @@ h1{font-size:118px;line-height:.98;font-weight:800;letter-spacing:-.035em;text-s
 .calc{background:rgba(20,12,8,.85);border:2px solid rgba(255,122,26,.55);border-radius:28px;padding:30px 34px}
 .calc .r{display:flex;justify-content:space-between;font-size:38px;font-weight:700;padding:10px 0}.calc .r.g{color:#FFB547}.calc .ln{height:2px;background:rgba(255,255,255,.15);margin:8px 0}
 .calc .note{font-size:26px;color:#C9B9AA;margin-top:12px}
-</style></head><body><div class="bg"></div><div class="moon" style="left:300px;top:800px;width:520px;height:520px"></div><svg class="web" viewBox="0 0 100 100" fill="none" stroke="#fff" stroke-width=".6"><path d="M100 0 0 100M100 0 30 100M100 0 60 100M100 0 0 70M100 0 0 40"/><path d="M80 0q5 15 20 20M60 0q8 30 40 40M40 0q10 45 60 60M20 0q12 60 80 80"/></svg><div class="fog" style="top:1280px"></div><svg class="bat" style="left:140px;top:980px;width:150px;opacity:0.95;transform:rotate(-8deg)" viewBox="0 0 24 12"><path d="M0 4C3 1 6 1 8 3.5 9 1.5 10.5 1 12 2.6 13.5 1 15 1.5 16 3.5 18 1 21 1 24 4 21.5 4 19.6 5 18.6 7 16.8 6 14.6 6.4 12 9 9.4 6.4 7.2 6 5.4 7 4.4 5 2.5 4 0 4Z"/></svg><svg class="bat" style="left:780px;top:880px;width:110px;opacity:0.9;transform:rotate(10deg)" viewBox="0 0 24 12"><path d="M0 4C3 1 6 1 8 3.5 9 1.5 10.5 1 12 2.6 13.5 1 15 1.5 16 3.5 18 1 21 1 24 4 21.5 4 19.6 5 18.6 7 16.8 6 14.6 6.4 12 9 9.4 6.4 7.2 6 5.4 7 4.4 5 2.5 4 0 4Z"/></svg><svg class="bat" style="left:860px;top:1130px;width:70px;opacity:0.8;transform:rotate(-4deg)" viewBox="0 0 24 12"><path d="M0 4C3 1 6 1 8 3.5 9 1.5 10.5 1 12 2.6 13.5 1 15 1.5 16 3.5 18 1 21 1 24 4 21.5 4 19.6 5 18.6 7 16.8 6 14.6 6.4 12 9 9.4 6.4 7.2 6 5.4 7 4.4 5 2.5 4 0 4Z"/></svg><svg class="bat" style="left:90px;top:760px;width:70px;opacity:0.7;transform:rotate(6deg)" viewBox="0 0 24 12"><path d="M0 4C3 1 6 1 8 3.5 9 1.5 10.5 1 12 2.6 13.5 1 15 1.5 16 3.5 18 1 21 1 24 4 21.5 4 19.6 5 18.6 7 16.8 6 14.6 6.4 12 9 9.4 6.4 7.2 6 5.4 7 4.4 5 2.5 4 0 4Z"/></svg><div class="top"><img src="https://peptrium.com/wp-content/uploads/2026/08/IMG_2644-cropped-300x300.png"><b>PEPTRIUM</b></div><div style="position:absolute;left:80px;right:150px;top:280px"><div class="pill">🎃 HALLOWEEN BEI PEPTRIUM</div><h1 style="margin-top:28px">Jede 3.<br>Flasche<br><span class="o">gratis.</span></h1><div class="date" style="margin-top:30px">📅 Fr 30.10. – So 1.11.</div></div><div class="vials" style="top:860px;gap:-30px"><img class="dim" src="img/reta.png" style="height:369px"><img class="dim" src="img/ghk.png" style="height:369px"><div class="free"><img src="img/mots.png" style="height:430px"><div class="stamp">GRATIS</div></div></div><div class="cta"><div class="url"><small>JETZT ÖFFNEN</small>peptrium.com/halloween</div><div class="or">oder einfach Link in Bio</div></div><div class="foot">Nur für Laborforschung · nicht für den menschlichen Gebrauch</div></body></html>
+</style></head><body><div class="bg"></div><div class="moon" style="left:300px;top:800px;width:520px;height:520px"></div><svg class="web" viewBox="0 0 100 100" fill="none" stroke="#fff" stroke-width=".6"><path d="M100 0 0 100M100 0 30 100M100 0 60 100M100 0 0 70M100 0 0 40"/><path d="M80 0q5 15 20 20M60 0q8 30 40 40M40 0q10 45 60 60M20 0q12 60 80 80"/></svg><div class="fog" style="top:1280px"></div><svg class="bat" style="left:140px;top:980px;width:150px;opacity:0.95;transform:rotate(-8deg)" viewBox="0 0 24 12"><path d="M0 4C3 1 6 1 8 3.5 9 1.5 10.5 1 12 2.6 13.5 1 15 1.5 16 3.5 18 1 21 1 24 4 21.5 4 19.6 5 18.6 7 16.8 6 14.6 6.4 12 9 9.4 6.4 7.2 6 5.4 7 4.4 5 2.5 4 0 4Z"/></svg><svg class="bat" style="left:780px;top:880px;width:110px;opacity:0.9;transform:rotate(10deg)" viewBox="0 0 24 12"><path d="M0 4C3 1 6 1 8 3.5 9 1.5 10.5 1 12 2.6 13.5 1 15 1.5 16 3.5 18 1 21 1 24 4 21.5 4 19.6 5 18.6 7 16.8 6 14.6 6.4 12 9 9.4 6.4 7.2 6 5.4 7 4.4 5 2.5 4 0 4Z"/></svg><svg class="bat" style="left:860px;top:1130px;width:70px;opacity:0.8;transform:rotate(-4deg)" viewBox="0 0 24 12"><path d="M0 4C3 1 6 1 8 3.5 9 1.5 10.5 1 12 2.6 13.5 1 15 1.5 16 3.5 18 1 21 1 24 4 21.5 4 19.6 5 18.6 7 16.8 6 14.6 6.4 12 9 9.4 6.4 7.2 6 5.4 7 4.4 5 2.5 4 0 4Z"/></svg><svg class="bat" style="left:90px;top:760px;width:70px;opacity:0.7;transform:rotate(6deg)" viewBox="0 0 24 12"><path d="M0 4C3 1 6 1 8 3.5 9 1.5 10.5 1 12 2.6 13.5 1 15 1.5 16 3.5 18 1 21 1 24 4 21.5 4 19.6 5 18.6 7 16.8 6 14.6 6.4 12 9 9.4 6.4 7.2 6 5.4 7 4.4 5 2.5 4 0 4Z"/></svg><div class="top"><img src="https://peptrium.com/wp-content/uploads/2026/08/IMG_2644-cropped-300x300.png"><b>PEPTRIUM</b></div><div style="position:absolute;left:80px;right:150px;top:280px"><div class="pill">🎃 HALLOWEEN BEI PEPTRIUM</div><h1 style="margin-top:28px">Jede 3.<br>Flasche<br><span class="o">gratis.</span></h1><div class="date" style="margin-top:30px">📅 Fr 30.10. – So 1.11.</div></div><div class="vials" style="top:860px;gap:-30px"><img class="dim" src="img/reta.png" style="height:369px"><img class="dim" src="img/ghk.png" style="height:369px"><div class="free"><img src="img/mots.png" style="height:430px"><div class="stamp">GRATIS</div></div></div><div class="cta"><div class="url"><small>JETZT AUF</small>peptrium.com</div><div class="or">Einfach im Browser eintippen</div></div><div class="foot">Nur für Laborforschung · nicht für den menschlichen Gebrauch</div></body></html>

diff --git a/drafts/halloween-2026-10-22/partner/tiktok/gen2.py b/drafts/halloween-2026-10-22/partner/tiktok/gen2.py
@@ -22,7 +22,7 @@ h1{font-size:118px;line-height:.98;font-weight:800;letter-spacing:-.035em;text-s
 .free{position:relative}.free img{filter:drop-shadow(0 0 70px rgba(255,122,26,.85)) drop-shadow(0 30px 40px rgba(0,0,0,.8))!important}
 .stamp{position:absolute;top:40%;left:50%;transform:translate(-50%,-50%) rotate(-12deg);font-size:50px;font-weight:800;letter-spacing:.08em;color:#140A02;background:linear-gradient(90deg,#FF6A00,#FFB547);padding:12px 28px;border-radius:14px;box-shadow:0 10px 50px rgba(255,122,26,.7)}
 .cta{position:absolute;left:80px;right:150px;bottom:440px;text-align:center}
-.url{display:block;background:linear-gradient(90deg,#FF6A00,#FFB547);color:#140A02;font-size:50px;font-weight:800;letter-spacing:-.01em;border-radius:28px;padding:30px 20px;box-shadow:0 16px 60px rgba(255,106,0,.55)}
+.url{display:block;background:linear-gradient(90deg,#FF6A00,#FFB547);color:#140A02;font-size:72px;font-weight:800;letter-spacing:-.01em;border-radius:28px;padding:30px 20px;box-shadow:0 16px 60px rgba(255,106,0,.55)}
 .url small{display:block;font-size:24px;font-weight:700;letter-spacing:.14em;opacity:.75;margin-bottom:4px}
 .or{font-size:28px;color:#E7D6C6;margin-top:16px;font-weight:600}
 .foot{position:absolute;left:80px;right:150px;bottom:395px;font-size:19px;color:#7d7068;text-align:center}
@@ -57,8 +57,8 @@ def vials(names, free_idx, top, h=480, gap=-30):
         if i==free_idx: out+=f'<div class="free"><img src="img/{n}.png" style="height:{hh}px"><div class="stamp">GRATIS</div></div>'
         else: out+=f'<img class="{"dim" if free_idx is not None else ""}" src="img/{n}.png" style="height:{hh}px">'
     return out+'</div>'
-def cta(sub='oder einfach Link in Bio'):
-    return f'<div class="cta"><div class="url"><small>JETZT ÖFFNEN</small>peptrium.com/halloween</div><div class="or">{sub}</div></div>'
+def cta(sub='Einfach im Browser eintippen'):
+    return f'<div class="cta"><div class="url"><small>JETZT AUF</small>peptrium.com</div><div class="or">{sub}</div></div>'
 T='<div style="position:absolute;left:80px;right:150px;top:280px">'
 P={}
 P['1-hook']=page(T+'<div class="pill">🎃 HALLOWEEN BEI PEPTRIUM</div><h1 style="margin-top:28px">Jede 3.<br>Flasche<br><span class="o">gratis.</span></h1>'
@@ -66,7 +66,7 @@ P['1-hook']=page(T+'<div class="pill">🎃 HALLOWEEN BEI PEPTRIUM</div><h1 style
   +vials(['reta','ghk','mots'],2,860,h=430)+cta(),moon=(560,1060,520))
 P['2-insider']=page(T+'<div class="pill">🔑 NUR FÜR INSIDER</div><h1 style="margin-top:28px;font-size:104px">6 Stunden<br><span class="o">früher rein.</span></h1>'
   '<div class="ticket" style="margin-top:40px"><div class="a">EARLY ACCESS</div><div class="b"><div class="t1">START FÜR INSIDER</div><div class="t2">Do 18:00</div><div class="t3">alle anderen erst Fr 0:00</div></div></div>'
-  '<div class="steps" style="margin-top:44px"><div class="st"><i>1</i>peptrium.com/halloween öffnen</div><div class="st"><i>2</i>Newsletter eintragen & bestätigen</div><div class="st"><i>3</i>Zugang kommt Do 18 Uhr per Mail</div></div></div>'
+  '<div class="steps" style="margin-top:44px"><div class="st"><i>1</i>peptrium.com öffnen</div><div class="st"><i>2</i>Newsletter eintragen & bestätigen</div><div class="st"><i>3</i>Zugang kommt Do 18 Uhr per Mail</div></div></div>'
   +cta('Kostenlos · jederzeit abmeldbar'),moon=(900,700,260))
 P['3-neu']=page(T+'<div class="pill">✨ NEU ZU HALLOWEEN</div><h1 style="margin-top:28px;font-size:104px">3 neue<br>Peptide <span class="o">+1<br>ist zurück.</span></h1>'
   '<div class="chips" style="margin-top:30px"><span>Cagrilintid</span><span>MT-2</span><span>GLOW</span><span class="w">BPC-157 wieder da</span></div></div>'
